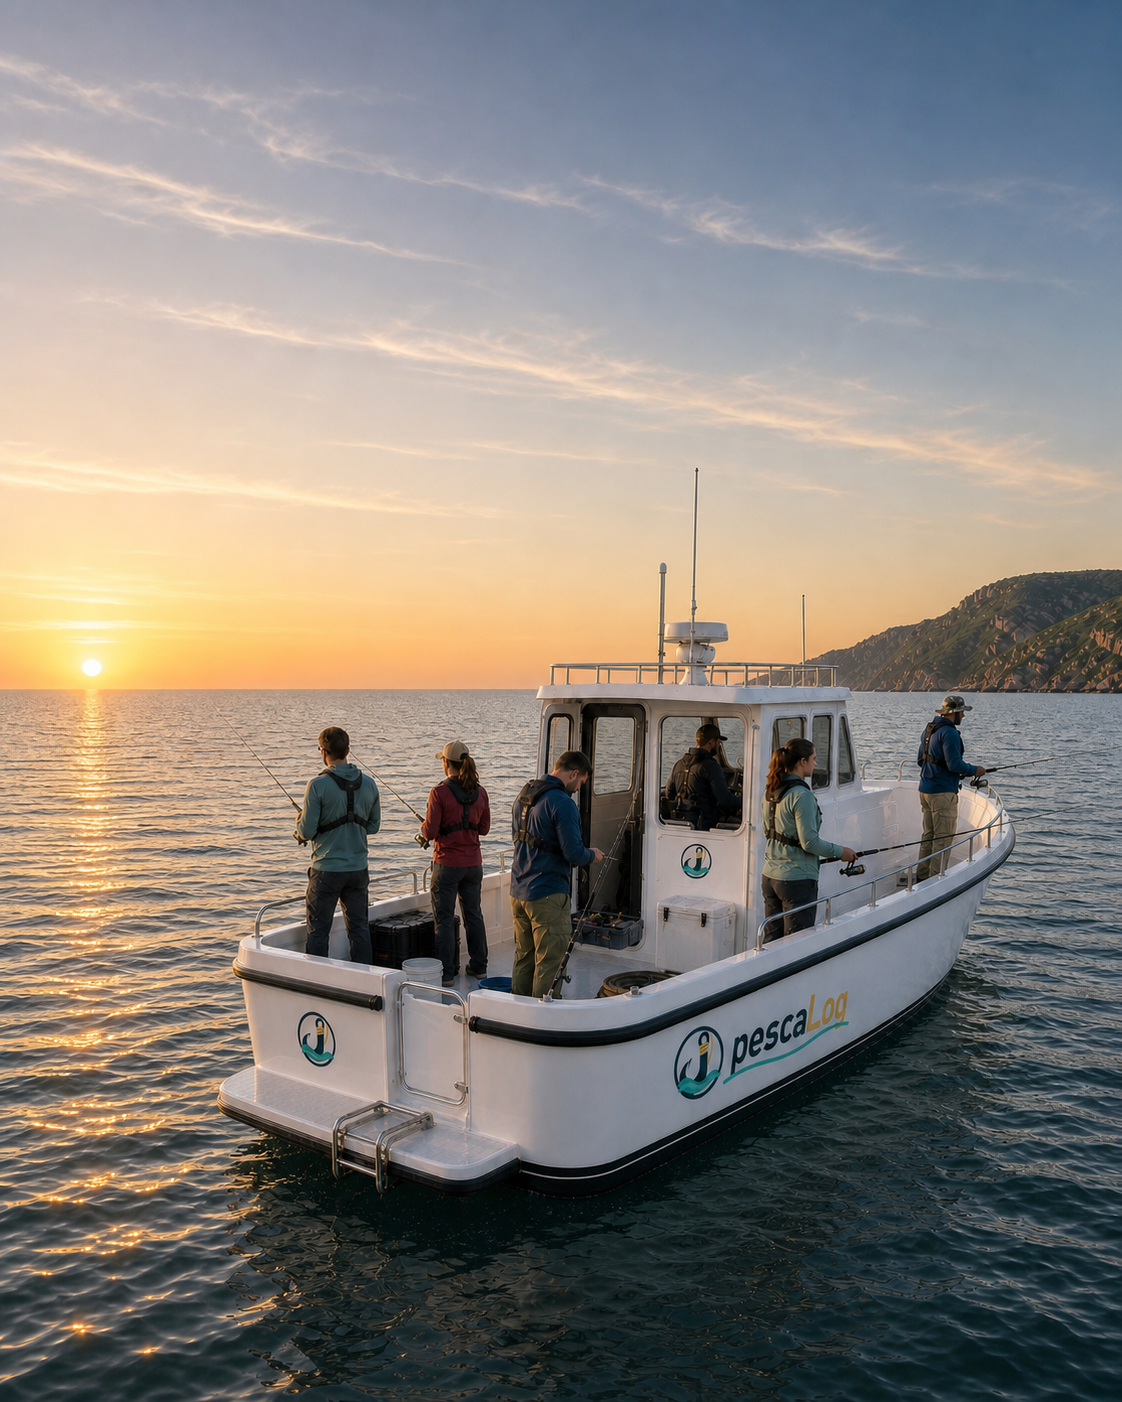
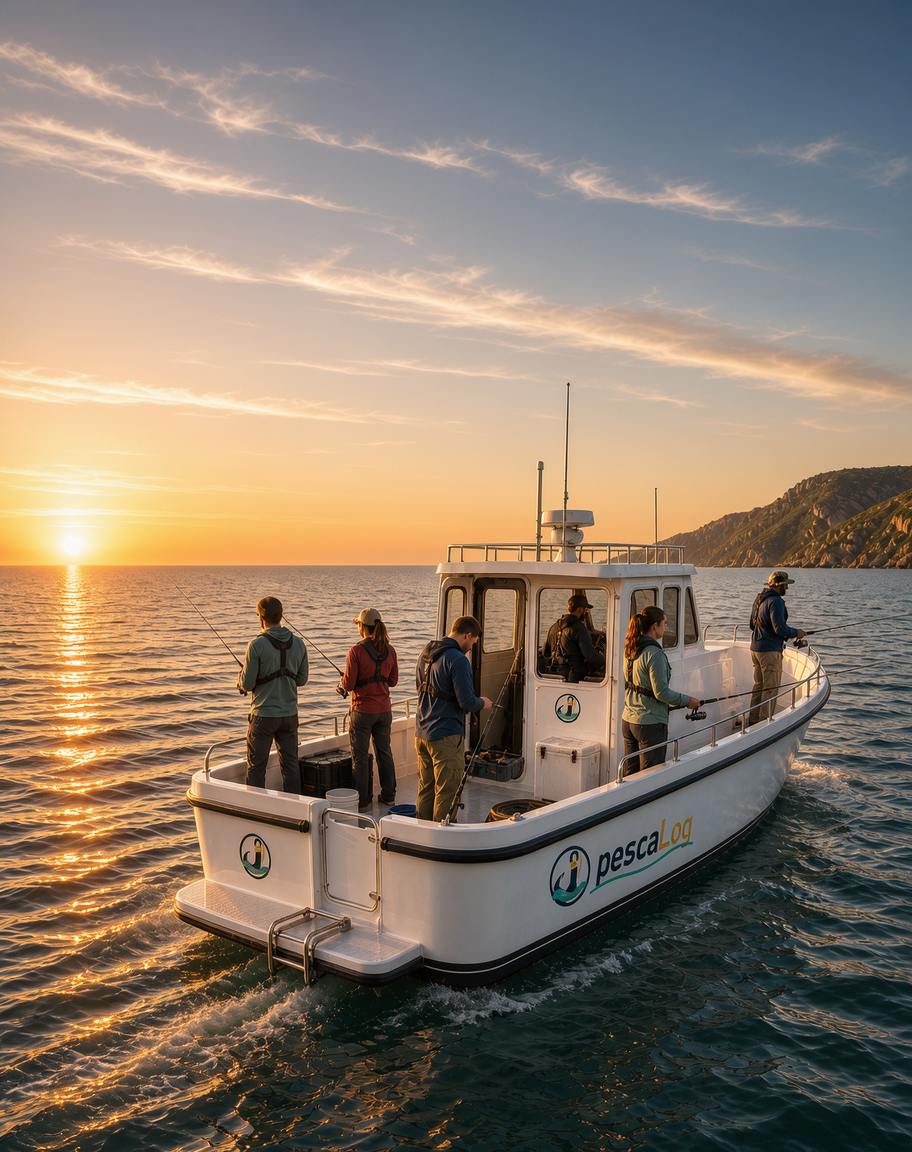
Promote realistic Arrabida hero v9

diff --git a/README.md b/README.md
@@ -4,7 +4,7 @@ Montra publica do PescaLog para partilha de mockups, prototipos visuais e docume
 
 Este repositório não contém o produto real. A aplicação real PescaLog será desenvolvida separadamente como .NET 10 Blazor, Identity e PostgreSQL.
 
-Snapshot visual: hero Arrábida v8, branding oficial do anzol e estados navegáveis do protótipo.
+Snapshot visual: hero Arrábida v9, branding oficial do anzol e estados navegáveis do protótipo.
 
 ## Conteudo
 
